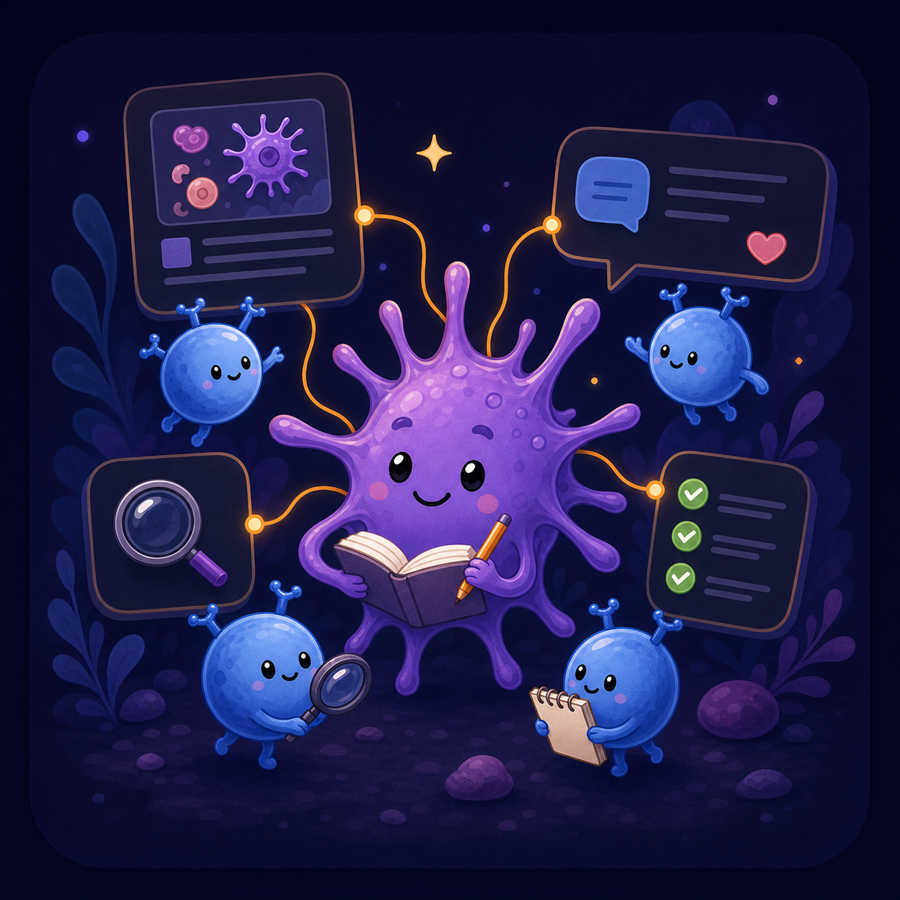
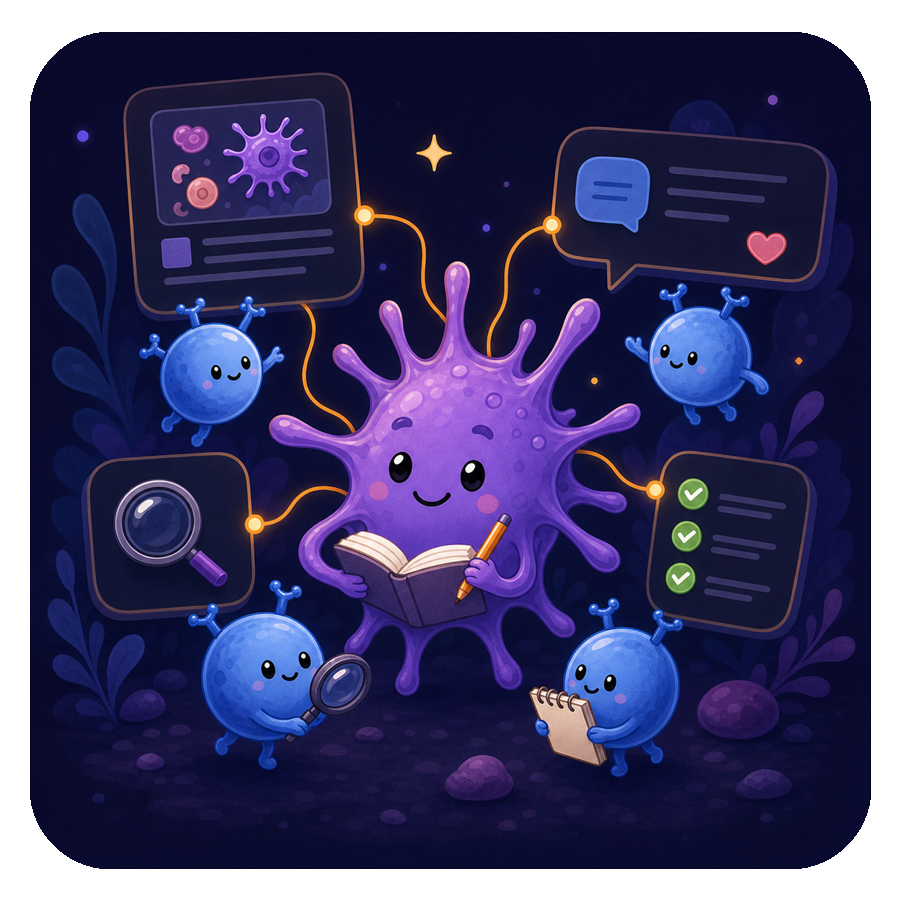
Update sign-in prompt (#1)

Changed region(s): [[0.0, 0.0, 1.0, 1.0]]

diff --git a/web/src/components/sidebar.tsx b/web/src/components/sidebar.tsx
@@ -572,7 +572,8 @@ function FooterPillButton({
 function SidebarFooter() {
   const pathname = useNavigationPathname();
   return (
-    <div className="shrink-0 space-y-2 px-3 pb-3 pt-1">
+    <div className="shrink-0 space-y-3 px-3 pb-3 pt-1">
+      <SidebarSignInPrompt />
       <div className="flex items-stretch overflow-hidden rounded-lg border border-[var(--sidebar-border)] bg-[var(--popover)] shadow-sm">
         <FooterPillButton
           icon={WandSparkles}
@@ -590,7 +591,6 @@ function SidebarFooter() {
           testId="sidebar-search"
         />
       </div>
-      <SidebarSignInPrompt />
     </div>
   );
 }

diff --git a/web/src/components/actions-menu.tsx b/web/src/components/actions-menu.tsx
@@ -311,7 +311,7 @@ export function SidebarSignInPrompt() {
     <>
       <div className="mb-2 rounded-lg border border-[var(--sidebar-border)] bg-[var(--popover)] p-3 shadow-sm">
         <p className="text-xs font-medium leading-snug text-[var(--foreground)]">
-          Comment and view additional content
+          Sign in to comment and view additional content
         </p>
         <button
           type="button"